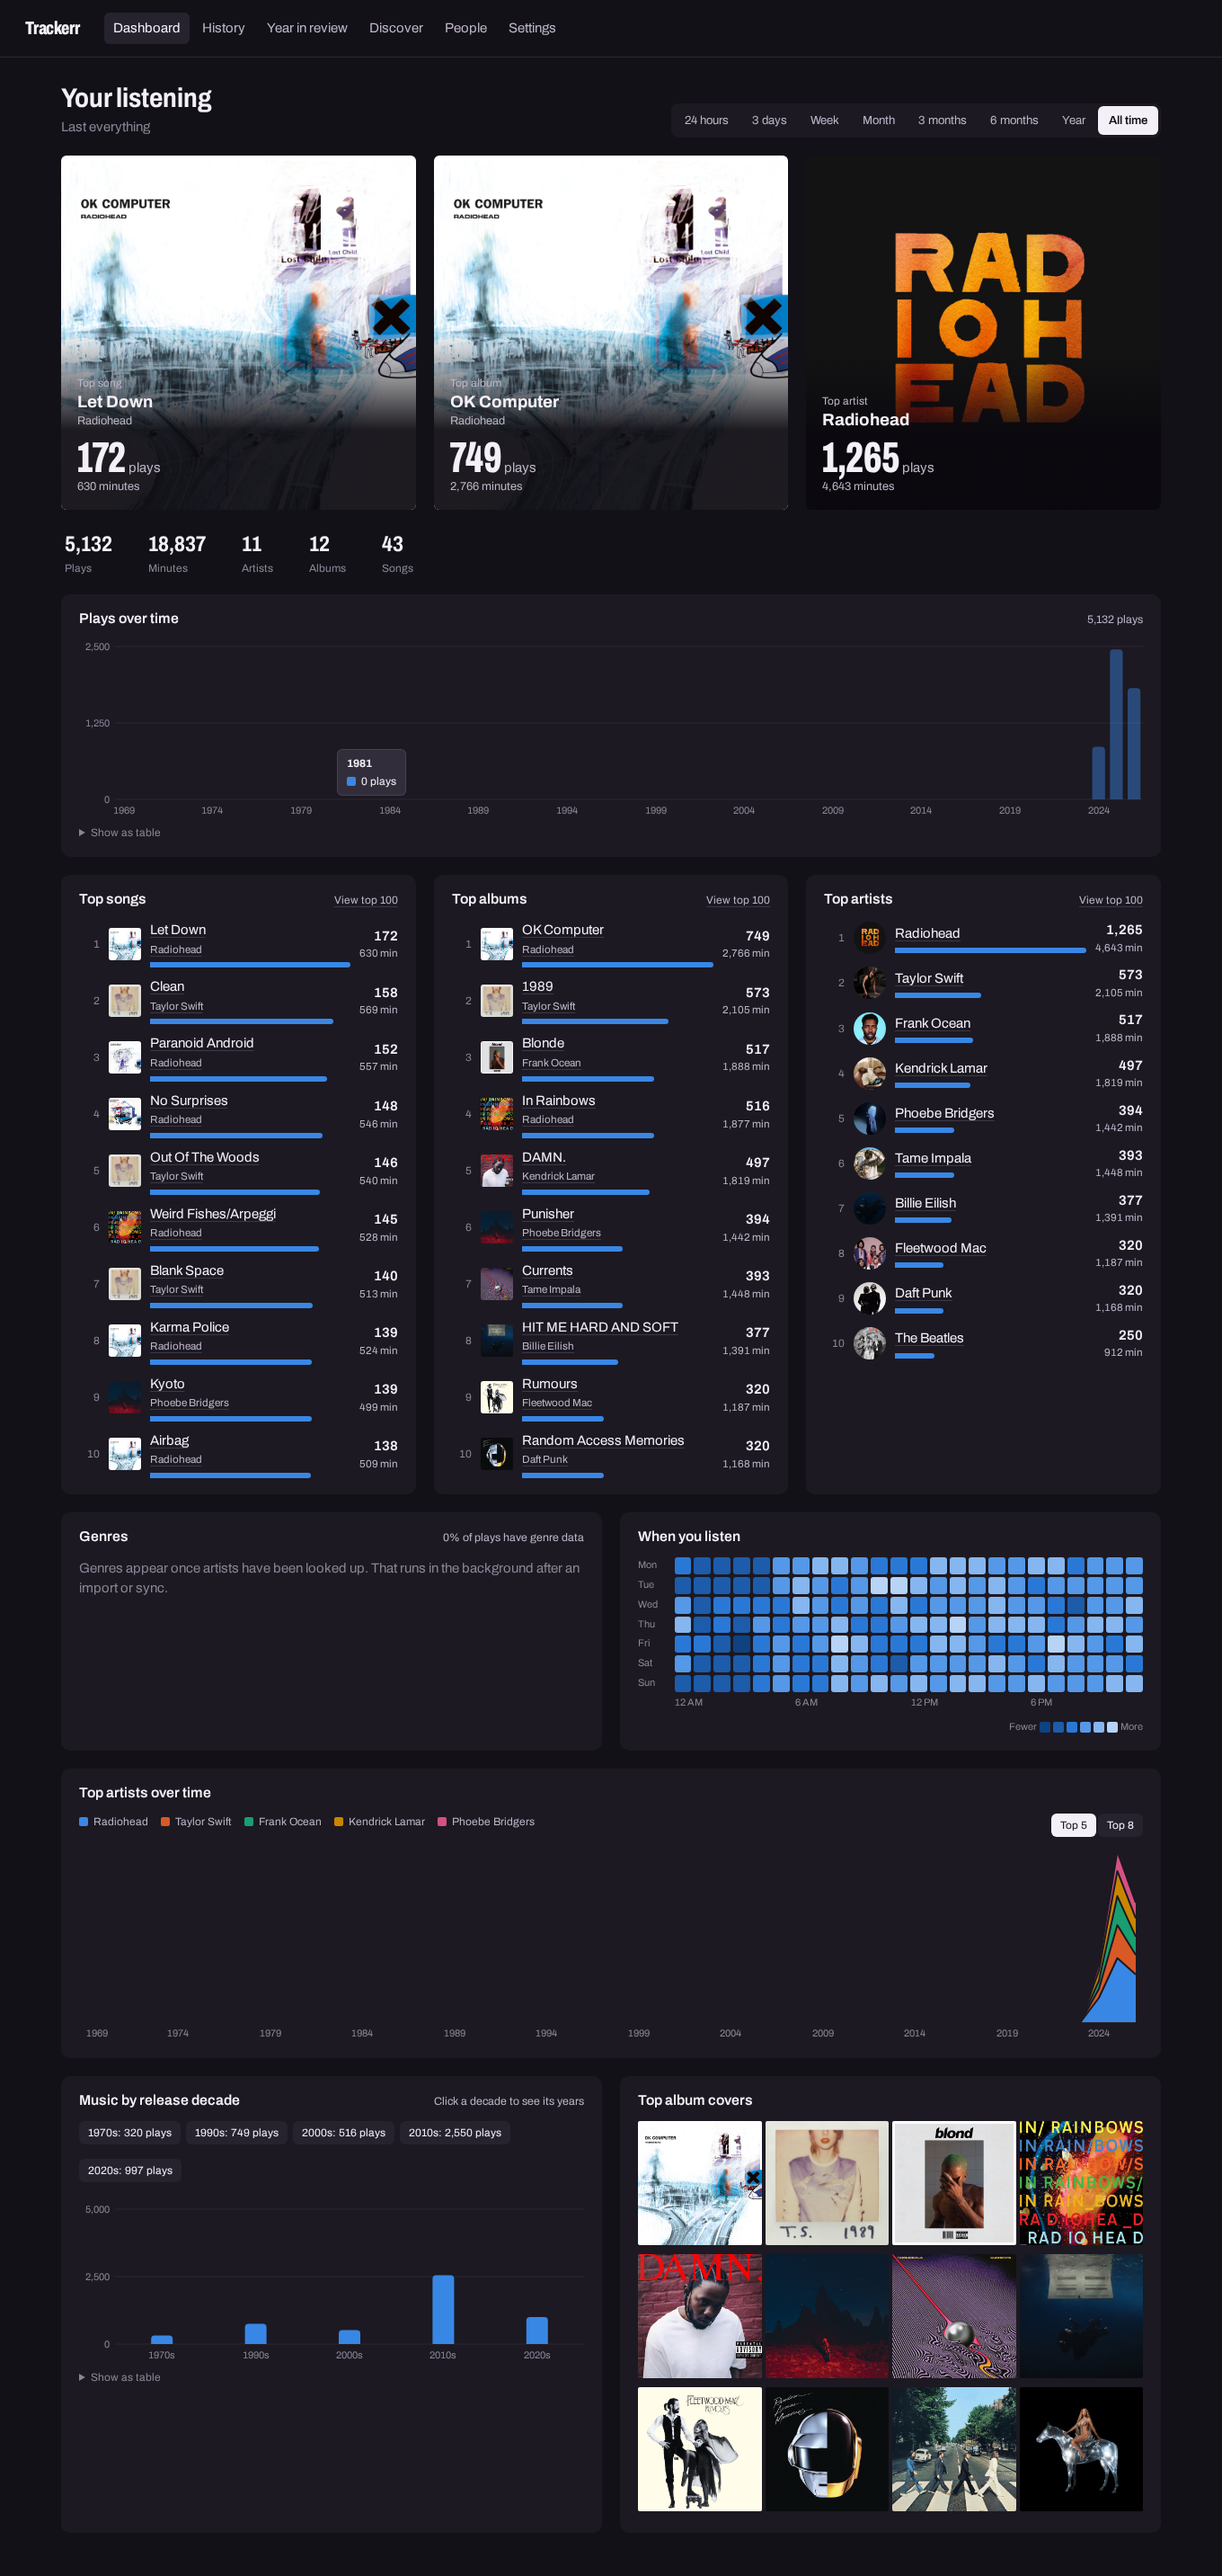
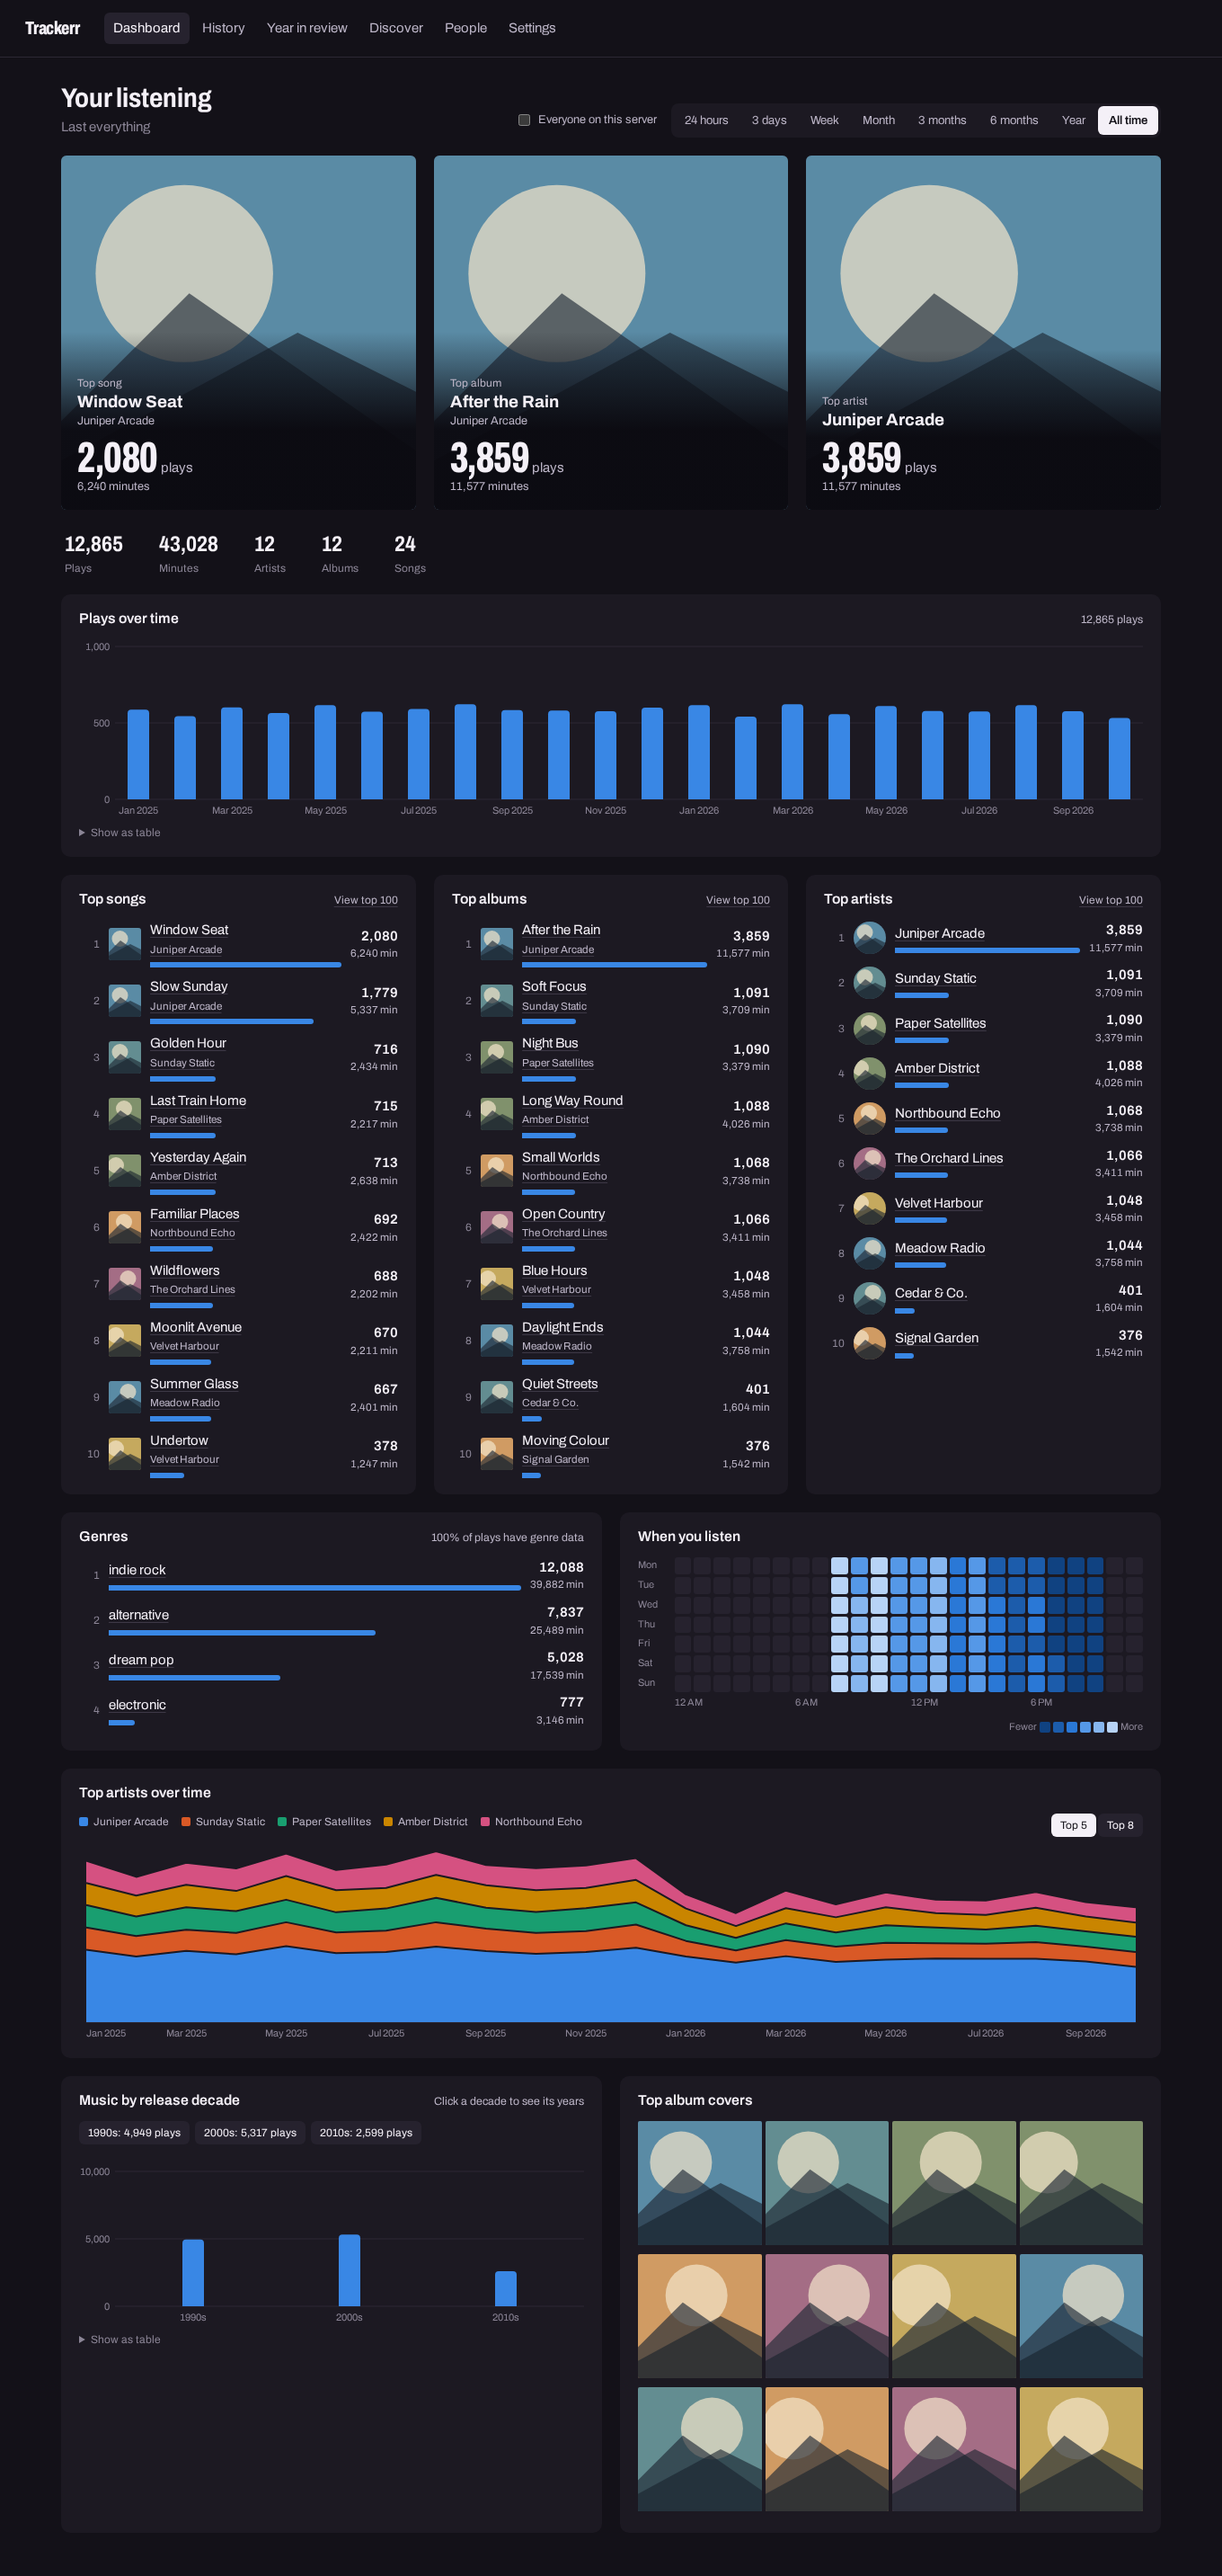
Refresh README and demo screenshot gallery

diff --git a/README.md b/README.md
@@ -1,14 +1,109 @@
 # Spotify Trackerr
 
-Self-hosted listening stats for a few people: top songs, albums and artists for any time range,
-genres, charts, a full play history, per-song/album/artist history, a year-in-review page, and
-recommendations. New plays sync from Spotify every 5 minutes; past plays come from Spotify's
-extended streaming history export.
+Self-hosted Spotify listening history, stats, and music discovery for you and a few friends.
+See your top songs, albums, artists, and genres; explore how your listening changes over time;
+and revisit any year's music. New plays sync from Spotify every 5 minutes, and Spotify's
+extended streaming history export fills in the past.
 
-![Dashboard](docs/screenshots/dashboard.png)
+Optional Last.fm and ListenBrainz connections help Discover pick new music from more of your
+listening. Your dashboards and history use the Spotify plays synced or imported into this app.
 
-More in [docs/screenshots](docs/screenshots): song, artist and album pages, history, year in review,
-Discover, People, Settings, and the phone layout. They use made-up demo plays.
+![Dashboard showing top music, listening totals, and plays over time](docs/screenshots/dashboard-overview.png)
+
+Screenshots show the current app with fictional artists, artwork, listening history, and
+recommendation picks. No personal listening data or real connected accounts are shown.
+
+## What you can do
+
+- **Explore your listening.** Rank songs, albums, and artists by plays or minutes, from the last
+  24 hours to all time. See trends, listening hours, genres, release decades, and album artwork.
+  Choose minutes, hours, days, or months as the listening-time display unit in Settings.
+- **Dig into a genre.** Click a genre on the dashboard or Year in Review to see its top song,
+  album, and artist, plus top 10 lists for each. Keep the dashboard's time range or review year.
+- **Search your history.** Search-as-you-type suggests songs, albums, and artists. Filter plays
+  by date or month, and open a song, album, or artist to see its totals, first and last plays,
+  monthly listening, and peak listening period.
+- **Revisit a year.** Year in Review includes top fives, listening totals, a daily calendar,
+  monthly charts, genres, and release years. It now lists your top 10 artists first heard that
+  year and shows your biggest and quietest listening days. Quietest means the fewest plays on
+  a day when you listened; days with no plays are excluded. “New to you” is based on the history
+  stored here.
+- **Find new music.** Discover offers artists, albums, and songs you haven't played in the app's
+  recorded history, using Last.fm recommendations. Connect Last.fm or ListenBrainz in Settings
+  to use your top artists and songs from those services; otherwise it uses your local history.
+  Last.fm is preferred, with ListenBrainz and local history as fallbacks when needed.
+- **Share with people on your server.** Make your listening visible to other signed-in users,
+  browse their dashboards and histories through People, or view everyone's shared listening
+  together. Visibility is controlled in Settings.
+- **Manage your connections.** Settings has separate sections for Spotify, your own Spotify
+  app, Last.fm, and ListenBrainz, alongside history import, preferences, and account controls.
+
+Recent updates also improve all-time and year dashboard performance, handle Spotify rate limits
+with a pause per developer app, and add automated build, browser, and security checks.
+
+## Screenshots
+
+<details>
+<summary>Genre pages: top song, album, artist, and top 10 lists</summary>
+
+![Indie rock genre page with leading song, album, and artist above three top 10 lists](docs/screenshots/genre.png)
+
+</details>
+
+<details>
+<summary>Year in Review: artists new to you, biggest day, and quietest listening day</summary>
+
+![Year in Review showing artists first heard in 2026 and the calendar's biggest and quietest listening days](docs/screenshots/year-in-review-new-artists.png)
+
+[See the full Year in Review](docs/screenshots/year-in-review.png).
+
+</details>
+
+<details>
+<summary>Discover: artist, album, and song recommendations</summary>
+
+![Discover with demo recommendation shelves using a demo Last.fm connection](docs/screenshots/discover.png)
+
+</details>
+
+<details>
+<summary>Listening history and individual music pages</summary>
+
+![Listening history with search and date filtering](docs/screenshots/history.png)
+
+![Song page with listening totals and monthly history](docs/screenshots/song.png)
+
+See the [artist](docs/screenshots/artist.png), [album](docs/screenshots/album.png), and
+[top artists](docs/screenshots/top-artists.png) pages too.
+
+</details>
+
+<details>
+<summary>Settings: Last.fm and ListenBrainz connections</summary>
+
+![Settings sidebar and connected demo Last.fm account](docs/screenshots/settings.png)
+
+![Settings showing the connected demo ListenBrainz account and recommendation fallback](docs/screenshots/settings-listenbrainz.png)
+
+</details>
+
+<details>
+<summary>Preferences: rankings, listening-time units, and visibility</summary>
+
+![Preferences showing ranking choices, listening-time display units, and listening visibility](docs/screenshots/settings-preferences.png)
+
+</details>
+
+<details>
+<summary>Phone layout</summary>
+
+<img src="docs/screenshots/dashboard-phone.png" alt="Listening dashboard on a 390-pixel-wide phone viewport" width="320" />
+
+</details>
+
+Also see the [complete dashboard](docs/screenshots/dashboard.png),
+[all-time dashboard](docs/screenshots/dashboard-all-time.png), and [People](docs/screenshots/people.png).
+To refresh these images, see [the screenshot instructions](docs/screenshots/README.md).
 
 ## Run it
 
@@ -34,7 +129,7 @@ https name.
    redirect URIs from `.env.example`, and copy the Client ID and secret into `.env`. Your account
    must have Premium. Under *User Management*, add the Spotify accounts of everyone who will use it
    (Spotify allows 5 per app). More people? Each can create their own app and paste it into
-   *Settings > Use your own Spotify app*.
+   *Settings > Your own Spotify app*.
 2. **Cloudflare Tunnel.** Create a tunnel in Cloudflare Zero Trust, give it a public hostname
    that points to `http://app:3000`, and put the token in `CLOUDFLARE_TUNNEL_TOKEN`. Add that
    hostname to `ALLOWED_HOSTS` and as a Spotify redirect URI, then run
@@ -44,11 +139,15 @@ https name.
    and `LASTFM_SHARED_SECRET`, which take priority). That turns on Discover
    (new artists, albums and songs), similar songs/artists and better genres, and lets each person
    *Sign in with Last.fm* in Settings so Discover works from their Last.fm top artists and songs.
-   Features hide when a key is missing.
-   For *Sign in with ListenBrainz*, register a web app at https://musicbrainz.org/account/applications
+   Discover and similar-music recommendations require the Last.fm API key; sign-in also needs
+   the shared secret.
+4. **ListenBrainz (optional).** For *Sign in with ListenBrainz*, register a web app at https://musicbrainz.org/account/applications
    with callback `https://<your address>/auth/listenbrainz/callback` and put its ID and secret in
-   `MUSICBRAINZ_CLIENT_ID` and `MUSICBRAINZ_CLIENT_SECRET`. Discover then also seeds from ListenBrainz.
-4. **Import history.** Request *Extended streaming history* at https://www.spotify.com/account/privacy/
+   `MUSICBRAINZ_CLIENT_ID` and `MUSICBRAINZ_CLIENT_SECRET`. Each person can then connect their
+   MusicBrainz account in *Settings > ListenBrainz*. Discover still requires the Last.fm API key
+   to generate recommendations. Connecting either service does not import its plays into your
+   listening history.
+5. **Import history.** Request *Extended streaming history* at https://www.spotify.com/account/privacy/
    and upload the zip in Settings when it arrives (up to 30 days).
 
 Spotify ends each link 6 months after sign-in. The app warns two weeks ahead; click
@@ -74,8 +173,12 @@ npm run check
 ```
 
 GitHub Actions runs tests, type checks, browser smoke tests, dependency/security scans, and Docker checks.
-See [.github/README.md](.github/README.md) for local commands, schedules, and repository settings to enable after merging.
+See [.github/README.md](.github/README.md) for local commands, schedules, and repository settings.
 
-Data lives in SQLite at `$DATA_DIR/trackerr.db` (`./data` by default). Spotify tokens and secrets pasted
-into Settings are encrypted with `$DATA_DIR/secret.key`; back it up with the database, or everyone has to reconnect
-Spotify and enter their own app (and the admin the Last.fm app) again.
+## Data and backups
+
+Data lives in SQLite at `$DATA_DIR/trackerr.db` (`./data` by default, mounted at `/data` in Docker).
+Spotify credentials, linked Last.fm session keys, and secrets pasted into Settings are encrypted
+with `$DATA_DIR/secret.key`. Back up the key with the database; without it, affected connections
+need to be reconnected and saved app credentials entered again. Keep your `.env` configuration
+backed up separately.

diff --git a/docs/screenshots/README.md b/docs/screenshots/README.md
@@ -1,0 +1,31 @@
+# Demo screenshots
+
+These PNGs are captured from the current production build. They use fictional artists, albums,
+songs, artwork, people, listening history, and cached recommendation picks. Last.fm and
+ListenBrainz usernames are demo labels, not authenticated connections to those services.
+
+The demo clock is fixed at October 29, 2026, with listening history across 2025 and 2026 so the
+yearly discoveries, busiest day, and quietest listening day have data. Desktop images use a
+1360 × 900 viewport; the phone image uses 390 × 844.
+
+## Refresh
+
+Use Node 22.22 or later with the project's installed dependencies:
+
+```sh
+npm ci
+npx playwright install chromium
+npm run screenshots
+```
+
+On Linux, Playwright may also need system libraries: `npx playwright install --with-deps chromium`.
+
+[The capture script](../../scripts/screenshots.mjs) builds the app, starts a local server on an
+available port, seeds a fresh database in the OS temporary directory, and replaces the PNGs here.
+It clears inherited music-service credentials, blocks outbound requests in the demo server and
+browser, and removes the temporary server and database when finished. Existing app data is not used.
+
+The script checks page headings and the unchanged app title, genre lists, yearly highlights,
+image loading, chart sizing, desktop horizontal overflow, and browser errors before reporting success.
+The dashboard currently has horizontal overflow on narrow phone screens. The phone image preserves
+the current layout, and the script reports that overflow without changing or hiding page content.
